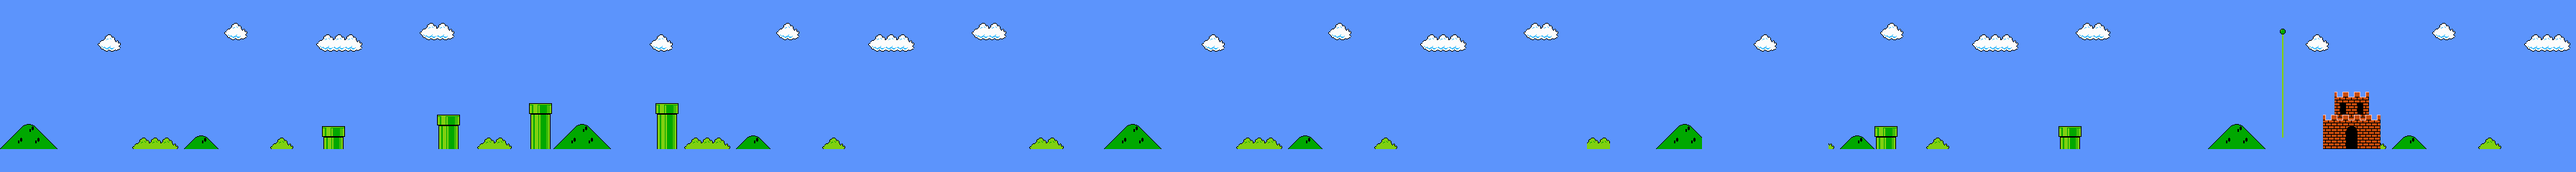
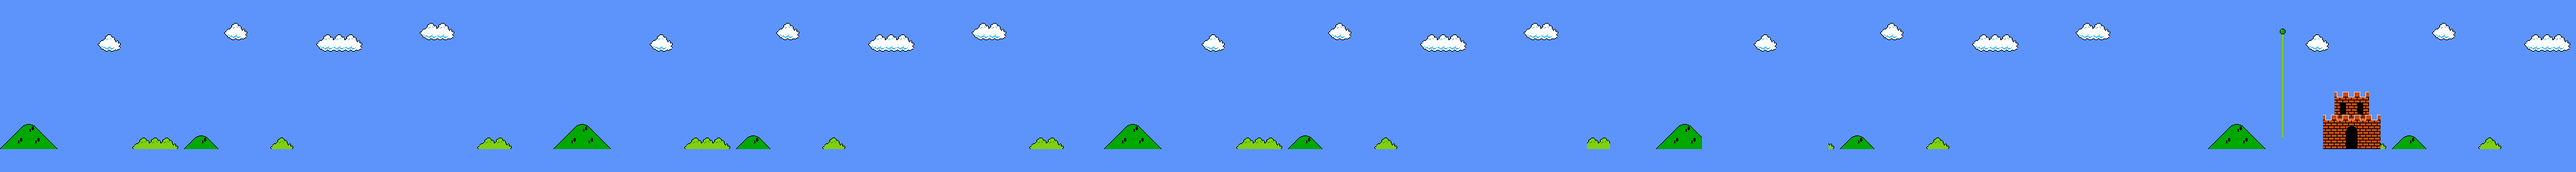
Update

diff --git a/game.js b/game.js
@@ -39,7 +39,6 @@ $(document).ready(function () {
 	}
 	for (var i = 0; i < 69; i++) {
         floor.push(new Enviroment(context, 0, 0, i * 40 + 6200, 560));
-        
 	}
 
 	//Render Stairs
@@ -117,7 +116,6 @@ $(document).ready(function () {
 	}
 	for (var i = 0; i < 1; i++) {
         floor.push(new Enviroment(context, 0, 16, i * 40 + 7920, 480));
-        
 	}
 
 	//Render breakable bricks
@@ -157,7 +155,6 @@ $(document).ready(function () {
 	}
 	for (var i = 0; i < 1; i++) {
         brick.push(new Enviroment(context, 16, 0, 6840, 360));
-        
 	}
 
 	//Render Question boxes
@@ -188,10 +185,64 @@ $(document).ready(function () {
 	}
 	for (var i = 0; i < 1; i++) {
         box.push(new Enviroment(context, 384, 0, 6800, 360));
-        
 	}
 
-    var mario = new Mario(context,0,0);
+	//Render Pipes
+	var pipe = [];
+	for (var i = 0; i < 1; i++) {
+		j = 40;
+		pipe.push(new Enviroment(context, 0, 128, 0 + j * 28, 0 + j * 11));
+		pipe.push(new Enviroment(context, 16, 128, 40 + j * 28, 0 + j * 11));
+		pipe.push(new Enviroment(context, 0, 144, 0 + j * 28, 40 + j * 11));
+		pipe.push(new Enviroment(context, 16, 144, 40 + j * 28, 40 + j * 11));
+	}
+	for (var i = 0; i < 1; i++) {
+		j = 40;
+		pipe.push(new Enviroment(context, 0, 128, 0 + j * 38, 0 + j * 10));
+		pipe.push(new Enviroment(context, 16, 128, 40 + j * 38, 0 + j * 10));
+		pipe.push(new Enviroment(context, 0, 144, 0 + j * 38, 40 + j * 10));
+		pipe.push(new Enviroment(context, 16, 144, 40 + j * 38, 40 + j * 10));
+		pipe.push(new Enviroment(context, 0, 145, 0 + j * 38, 80 + j * 10));
+		pipe.push(new Enviroment(context, 16, 145, 40 + j * 38, 80 + j * 10));
+	}
+	for (var i = 0; i < 1; i++) {
+		j = 40;
+		pipe.push(new Enviroment(context, 0, 128, 0 + j * 46, 0 + j * 9));
+		pipe.push(new Enviroment(context, 16, 128, 40 + j * 46, 0 + j * 9));
+		pipe.push(new Enviroment(context, 0, 144, 0 + j * 46, 40 + j * 9));
+		pipe.push(new Enviroment(context, 16, 144, 40 + j * 46, 40 + j * 9));
+		pipe.push(new Enviroment(context, 0, 145, 0 + j * 46, 80 + j * 9));
+		pipe.push(new Enviroment(context, 16, 145, 40 + j * 46, 80 + j * 9));
+		pipe.push(new Enviroment(context, 0, 145, 0 + j * 46, 120 + j * 9));
+		pipe.push(new Enviroment(context, 16, 145, 40 + j * 46, 120 + j * 9));
+	}
+	for (var i = 0; i < 1; i++) {
+		j = 40;
+		pipe.push(new Enviroment(context, 0, 128, 0 + j * 57, 0 + j * 9));
+		pipe.push(new Enviroment(context, 16, 128, 40 + j * 57, 0 + j * 9));
+		pipe.push(new Enviroment(context, 0, 144, 0 + j * 57, 40 + j * 9));
+		pipe.push(new Enviroment(context, 16, 144, 40 + j * 57, 40 + j * 9));
+		pipe.push(new Enviroment(context, 0, 145, 0 + j * 57, 80 + j * 9));
+		pipe.push(new Enviroment(context, 16, 145, 40 + j * 57, 80 + j * 9));
+		pipe.push(new Enviroment(context, 0, 145, 0 + j * 57, 120 + j * 9));
+		pipe.push(new Enviroment(context, 16, 145, 40 + j * 57, 120 + j * 9));
+	}
+	for (var i = 0; i < 1; i++) {
+		j = 40;
+		pipe.push(new Enviroment(context, 0, 128, 0 + j * 163, 0 + j * 11));
+		pipe.push(new Enviroment(context, 16, 128, 40 + j * 163, 0 + j * 11));
+		pipe.push(new Enviroment(context, 0, 144, 0 + j * 163, 40 + j * 11));
+		pipe.push(new Enviroment(context, 16, 144, 40 + j * 163, 40 + j * 11));
+	}
+	for (var i = 0; i < 1; i++) {
+		j = 40;
+		pipe.push(new Enviroment(context, 0, 128, 0 + j * 179, 0 + j * 11));
+		pipe.push(new Enviroment(context, 16, 128, 40 + j * 179, 0 + j * 11));
+		pipe.push(new Enviroment(context, 0, 144, 0 + j * 179, 40 + j * 11));
+		pipe.push(new Enviroment(context, 16, 144, 40 + j * 179, 40 + j * 11));
+	}
+
+    var mario = new Mario(context,100,480);
 
 	var TITLE = 0;
 	var LOADING = 1;
@@ -282,8 +333,8 @@ $(document).ready(function () {
 	function Update() {
 		requestAnimationFrame(Update, canvas);
 		
-		if (background.x <= -7520) {
-			background.x = -7520;
+		if (background.x <= -7600) {
+			background.x = -7600;
 		}
 		else {
 			if (pressLeft && !pressRight) {
@@ -315,6 +366,9 @@ $(document).ready(function () {
 			for (var i = 0; i < Goombas.length; i++) {
 				Goombas[i].Update(background.vx);
 			}
+			for (var i = 0; i < pipe.length; i++) {
+				pipe[i].Update(background.vx);
+			}
 		}
 		//setTimeout(Update, 1000);
 		background.Update();
@@ -333,10 +387,12 @@ $(document).ready(function () {
 		for (var i = 0; i < box.length; i++) {
 			box[i].Render();
 		}
-        mario.Render();
 		for (var i = 0; i < Goombas.length; i++) {
 			Goombas[i].Render();
 		}
-		test.Render();
+		for (var i = 0; i < pipe.length; i++) {
+			pipe[i].Render();
+		}
+		mario.Render();
 	}
 });

diff --git a/Mario.js b/Mario.js
@@ -21,7 +21,7 @@ var Mario = (function (context,x,y) {
         for (var i = 0; i < 1; i++) {
             context.drawImage(this.image, this.sourceX, this.sourceY,
                 this.sourceWidth, this.sourceHeight, this.x + 0,
-                this.y + 480, this.width * 2.5, this.height * 2.5);
+                this.y, this.width * 2.5, this.height * 2.5);
             
         }
     }
